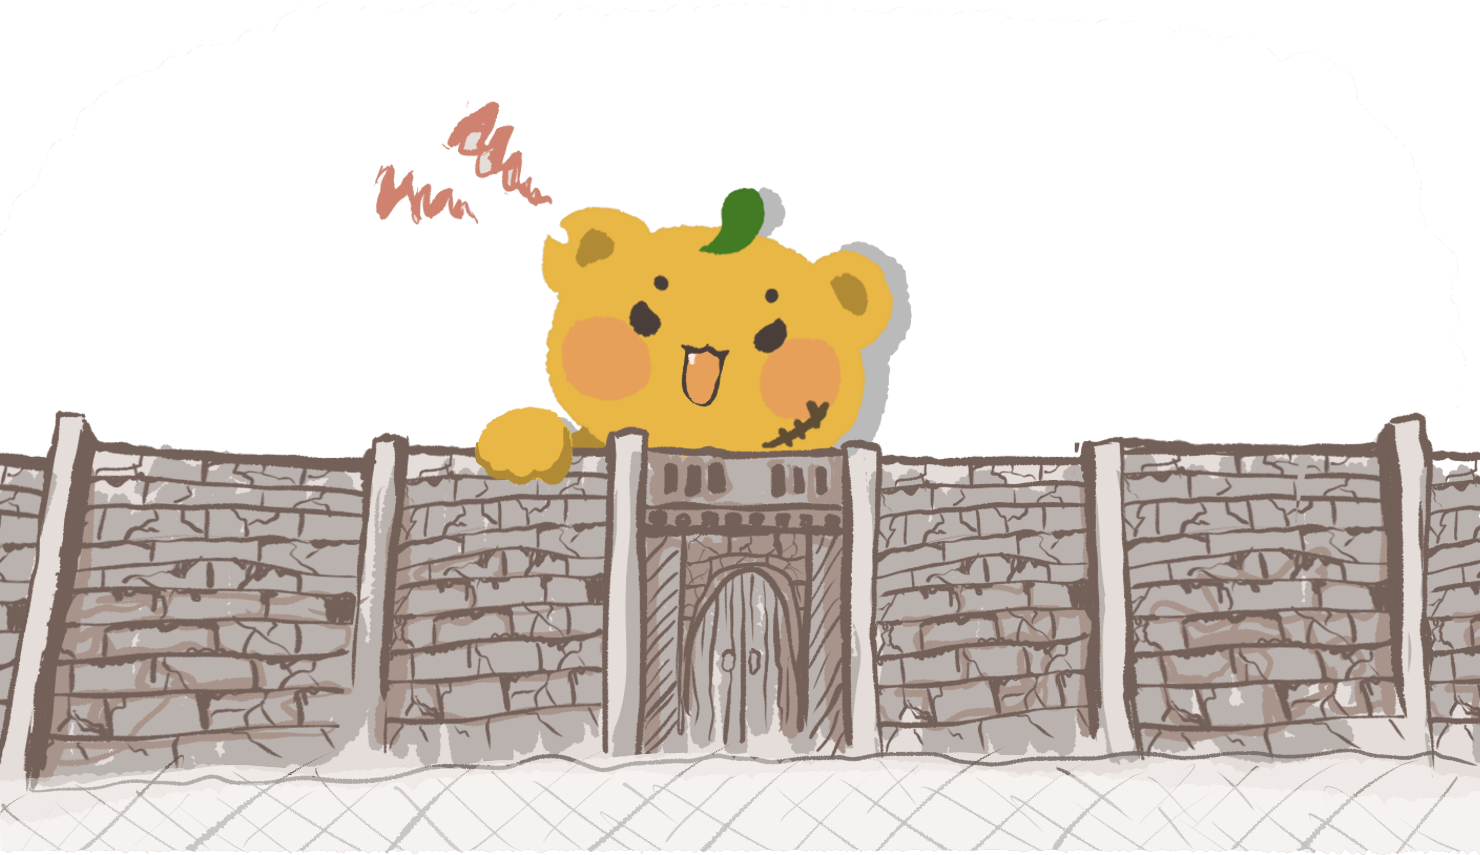
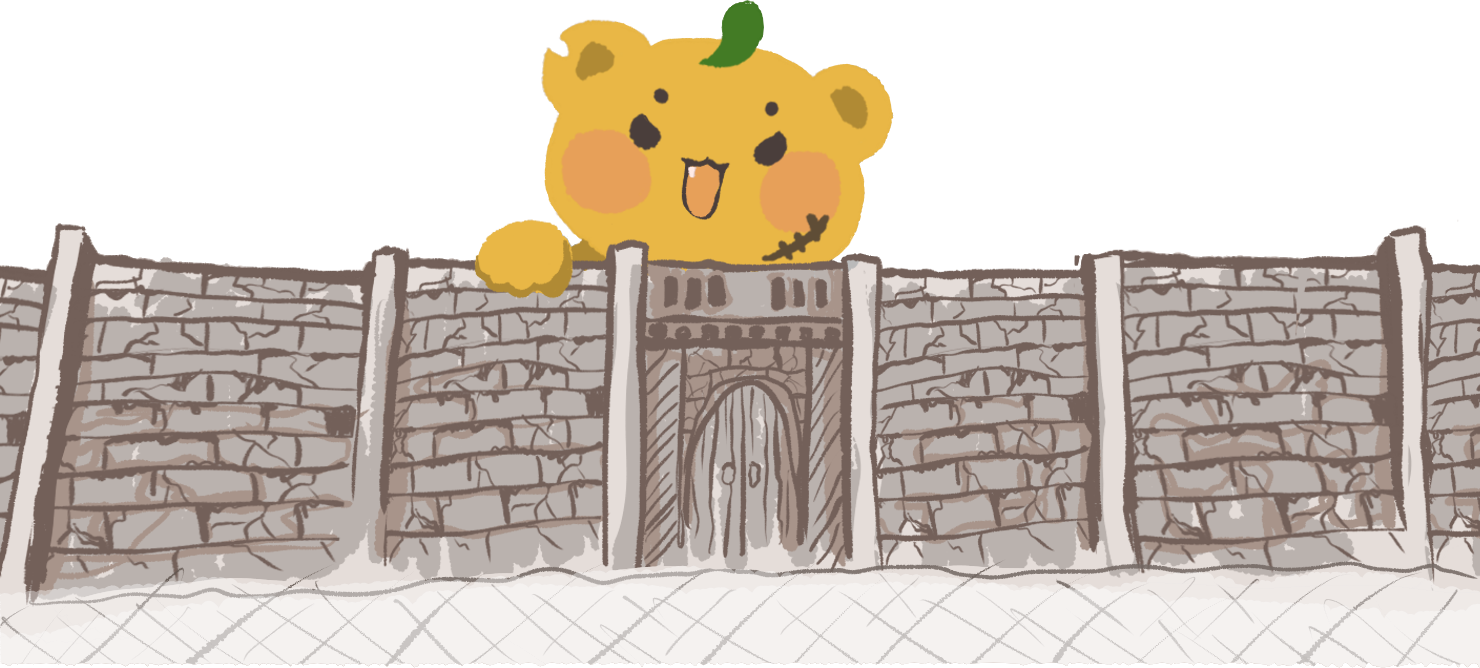
feat: 更新城堡圖（關門/開門黑洞）+ 進場改黑光
- landing-castle-gate.png（關門）/ landing-castle-open.png（開門黑洞）更新為新版，同尺寸 1480x668
- 進場特效改黑光：點門→換開門黑洞圖→以門口為原點 zoom 放大 + 黑色從黑洞擴散鋪滿 → 進圖表
- transform-origin / flash / 大門熱區 / 箭頭 對齊新門口位置（約 50% 65%）
- 圖 URL &c=3 破快取

diff --git a/frontend/static/css/style.css b/frontend/static/css/style.css
@@ -5403,7 +5403,7 @@ html.landing-active #weatherBg { opacity: .9 !important; z-index: 2 !important; 
 html.landing-active .landing { background: transparent; }
 /* 舞台：插圖滿寬（城牆靠兩邊），釘在底部地板之上；箭頭/大門鈕相對它定位 */
 /* 舞台＝插圖；transform-origin 對準大門口 → 進場時往大門「漸變放大」 */
-.landing-stage { position: relative; width: 100%; line-height: 0; transform-origin: 50% 76%; }
+.landing-stage { position: relative; width: 100%; line-height: 0; transform-origin: 50% 65%; }
 /* 插圖本身不可互動（避免拖曳/點擊出現瀏覽器紅叉/禁止符號）；只有大門熱區可點 */
 .landing-art { display: block; width: 100%; height: auto; pointer-events: none; user-select: none; -webkit-user-drag: none; }
 .landing { user-select: none; -webkit-user-select: none; }
@@ -5418,7 +5418,7 @@ html.landing-active .landing { background: transparent; }
 .landing-logo span { display: block; margin-top: .5em; font-size: .2em; font-weight: 400; letter-spacing: .6em; color: rgba(255,160,80,.5); }
 /* 箭頭：指向大門，上下跳動 */
 .landing-arrow {
-  position: absolute; left: 50%; top: 50%; transform: translateX(-50%);
+  position: absolute; left: 50%; top: 42%; transform: translateX(-50%);
   z-index: 4; color: #FFE08A; line-height: 1; pointer-events: none;
   font-size: clamp(20px, 4vw, 38px); text-shadow: 0 0 12px rgba(255,150,20,.95), 0 2px 4px rgba(0,0,0,.5);
   animation: landing-arrow 1s ease-in-out infinite;
@@ -5426,15 +5426,15 @@ html.landing-active .landing { background: transparent; }
 @keyframes landing-arrow { 0%,100% { transform: translateX(-50%) translateY(0); } 50% { transform: translateX(-50%) translateY(10px); } }
 /* 整座大門＝進入鈕：透明熱區，hover 浮暖光暈 */
 .landing-gate-btn {
-  position: absolute; left: 50%; top: 56%; transform: translateX(-50%); z-index: 3;
-  width: 15%; height: 38%;
+  position: absolute; left: 50%; top: 46%; transform: translateX(-50%); z-index: 3;
+  width: 14%; height: 46%;
   background: transparent; border: none; border-radius: 10px; padding: 0;
   cursor: pointer;            /* hover 不發光（依使用者要求），保留可點 */
 }
-/* 進場暖光：從大門口往全螢幕擴散 */
+/* 進場黑光：從大門黑洞往全螢幕擴散（被吸進去 → 全黑） */
 .landing-flash {
   position: absolute; inset: 0; z-index: 9; pointer-events: none; opacity: 0;
-  background: radial-gradient(circle at 50% 76%, #ffffff 0%, #FFF3D6 38%, #FFE2A6 66%, rgba(255,214,150,.92) 100%);
+  background: radial-gradient(circle at 50% 65%, #000000 0%, #050506 42%, #0e0e11 72%, rgba(6,6,9,.95) 100%);
 }
 /* 點門 → 進場序列：門內畫面漸變放大 + 暖光鋪滿 */
 .landing.landing-entering { pointer-events: none; }

diff --git a/frontend/templates/index.html b/frontend/templates/index.html
@@ -47,9 +47,9 @@
 <div id="landingScreen" class="landing">
   <div class="landing-logo">AHH<span>TRADING</span></div>
   <div class="landing-stage">
-    <img class="landing-art" src="/static/img/landing-castle-gate.png?v={{ ver }}&c=2"
-         data-closed="/static/img/landing-castle-gate.png?v={{ ver }}&c=2"
-         data-open="/static/img/landing-castle-open.png?v={{ ver }}&c=2"
+    <img class="landing-art" src="/static/img/landing-castle-gate.png?v={{ ver }}&c=3"
+         data-closed="/static/img/landing-castle-gate.png?v={{ ver }}&c=3"
+         data-open="/static/img/landing-castle-open.png?v={{ ver }}&c=3"
          alt="橘子熊城堡" draggable="false" />
     <div class="landing-arrow" aria-hidden="true">▼</div>
     <button id="landingStartBtn" class="landing-gate-btn" aria-label="進入"></button>